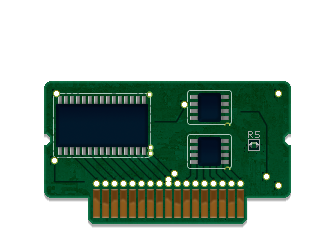
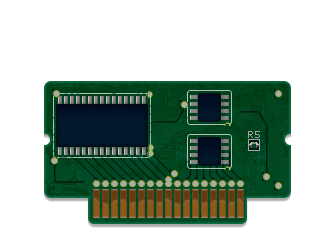
Boards: smooth, anti-aliased outlines, so the round corners and their rim are clean
Claude-Session: https://claude.ai/code/session_01QKd2aZnZgZkwj4Ae6LDswU

diff --git a/tools/carts/tv_boards.py b/tools/carts/tv_boards.py
@@ -73,14 +73,20 @@ def paste(rgb, part, x, y, holes=None):
         solid = part[..., 3] > 128
         holes[y:y + h, x:x + w] |= nd.binary_fill_holes(solid) & ~solid
 
-def build(mask, fingers, chips, parts, vias, traces):
-    """mask: the board's outline (bool, full canvas). fingers: (x0, count, bottom row)."""
-    h, w = mask.shape
+def build(mask4, fingers, chips, parts, vias, traces):
+    """mask4: the board's outline at 4x (bool), so its edge and corners come out smooth.
+    fingers: (x0, count, bottom row)."""
+    h, w = mask4.shape[0] // 4, mask4.shape[1] // 4
+    def down(a):
+        return a.reshape(h, 4, w, 4).mean((1, 3))
+    cover = down(mask4.astype(np.float32))
+    mask = cover > 0
     rgb = green(h, w)
-    d = nd.distance_transform_edt(np.pad(mask, 1))[1:-1, 1:-1]
+    # the cut rim, by each pixel's mean distance from the edge, so it follows the curves
+    d = down(nd.distance_transform_edt(np.pad(mask4, 4))[4:-4, 4:-4] / 4)
     for k, c in RIM.items():
-        band = mask & (np.abs(d - k) < 0.5)
-        rgb[band] = c + (rgb[band] - FLAT) * 0.5
+        wgt = np.clip(1 - np.abs(d - (k - 0.5)), 0, 1)[..., None] * mask[..., None]
+        rgb = rgb * (1 - wgt) + (c + (rgb - FLAT) * 0.5) * wgt
     # traces, drawn at 4x for soft edges, in the GBA board's trace green
     S = 4
     im = Image.new('L', (w * S, h * S), 0); dr = ImageDraw.Draw(im)
@@ -96,24 +102,26 @@ def build(mask, fingers, chips, parts, vias, traces):
     x0, n, bottom = fingers
     for k in range(n):
         paste(rgb, FINGERS[k % len(FINGERS)], x0 + k * 9, bottom - FINGER_BOTTOM, holes)
-    alpha = mask * 255.0
     def shift(m, dy, dx):
         out = np.zeros_like(m)
         out[dy:, dx:] = m[:m.shape[0] - dy, :m.shape[1] - dx]
         return out
+    # the drop shadow under the board (black), behind its partly covered edge pixels
+    shadow = np.zeros((h, w), np.float32)
     for k, a in enumerate(SHADOW_DOWN, 1):
-        sh = shift(mask, k, 0) & ~mask
-        alpha = np.where(sh & (alpha < a), a, alpha)
-    sh = shift(mask, 0, 1) & ~mask
-    alpha = np.where(sh & (alpha < SHADOW_RIGHT), SHADOW_RIGHT, alpha)
-    alpha[holes & mask] = 0
-    rgb = np.where(mask[..., None], rgb, 0)
-    out = np.dstack([np.clip(rgb, 0, 255), alpha]).round().astype(np.uint8)
+        shadow = np.maximum(shadow, shift(cover, k, 0) * a / 255)
+    shadow = np.maximum(shadow, shift(cover, 0, 1) * SHADOW_RIGHT / 255)
+    cover = np.where(holes & (cover > 0.99), 0, cover)
+    alpha = cover + (1 - cover) * shadow
+    rgb = np.where(alpha[..., None] > 0, rgb * cover[..., None] / np.maximum(alpha, 1e-6)[..., None], 0)
+    out = np.dstack([np.clip(rgb, 0, 255), alpha * 255]).round().astype(np.uint8)
     return out
 
 def rr(h, w, box, r):
-    m = Image.new('L', (w, h), 0)
-    ImageDraw.Draw(m).rounded_rectangle(box, radius=r, fill=255)
+    """A rounded rectangle at 4x; box is inclusive, in board pixels."""
+    m = Image.new('L', (w * 4, h * 4), 0)
+    x0, y0, x1, y1 = box
+    ImageDraw.Draw(m).rounded_rectangle((x0 * 4, y0 * 4, x1 * 4 + 3, y1 * 4 + 3), radius=r * 4, fill=255)
     return np.asarray(m) > 127
 
 # ---- SNES: one board, 247 wide, for both carts ----
